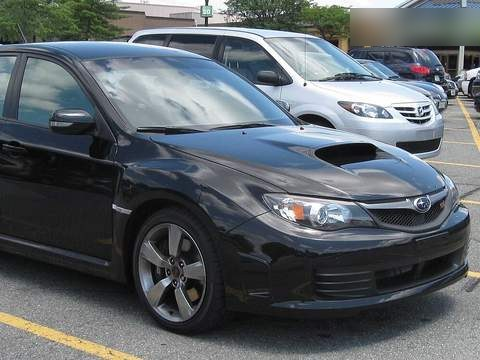
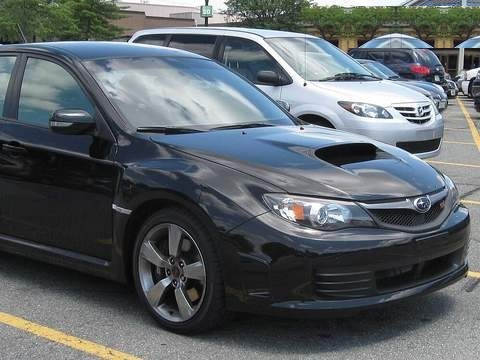
Review 18 fixes: demo connect wait, Busy night badge, towns and going, no plate-blur smudges
- Connecting in the demo says "Demo: @dan_r will accept in a few seconds".
- Community badge counts what Community shows: chats with unread messages plus requests.
- Busy night meets are named after a nearby town (areaNameNear), not all "Around Tamworth".
- Going is saved at once, and Busy night's meets keep your going when they're laid out again on
  load (a reload lost it). Regression test added.
- Sample photos: the grey blur boxes in the background of b-em-0 (Car park meet-up), b-kez-0
  (sign-in), b-raf-0 (Busy night's Friday meet) and b-tay-0 are replaced with the scene around
  them (hedge and road, trees, the shop's bikes). Every sample and place photo checked.

Claude-Session: https://claude.ai/code/session_01SxbZy52wgisMgiXvY74m9p

Changed region(s): [[0.7188, 0.0, 1.0, 0.1528]]

diff --git a/src/lib/store.tsx b/src/lib/store.tsx
@@ -15,7 +15,7 @@ import { ClockProvider } from './clock';
 import { alertProblem, travelProblem, nearbyArrivals, nearbyBatch, nearbyNotice, travelOf, type AlertMode } from './discover';
 import { isPublicType, type PlanChange } from './events';
 import { isSeedEvent, restartDemo, restartDemoClock, startDemoClock, stopDemoClock, toRealTime } from './demoTime';
-import { appNow, appNowMs } from './appClock';
+import { appNow, appNowMs, realNowMs } from './appClock';
 import { isUuid, mergeStatuses, sentEntry, type FeedbackContext, type PendingFeedback, type SentFeedback } from './feedbackQueue';
 import { newId } from './ids';
 import { createLocalRepository } from './localRepository';
@@ -219,6 +219,8 @@ function StoreForMode({ mode, signOut, children }: { mode: Mode; signOut: () => 
   const pendingSave = useRef<Persisted | null>(null);
   const saveTimer = useRef<ReturnType<typeof setTimeout> | null>(null);
   const legacySave = useRef(false);
+  /** Until when a change is saved at once, not after SAVE_DELAY_MS (going: a quick reload keeps it, Review 18). */
+  const saveNowUntil = useRef(0);
 
   const set = useCallback((fn: (s: Persisted) => Persisted) => {
     setState((s) => {
@@ -375,6 +377,10 @@ function StoreForMode({ mode, signOut, children }: { mode: Mode; signOut: () => 
     if (!loaded.current || mode.kind === 'none') return;
     pendingSave.current = state;
     if (saveTimer.current) clearTimeout(saveTimer.current);
+    if (realNowMs() < saveNowUntil.current) {
+      flush();
+      return;
+    }
     saveTimer.current = setTimeout(() => {
       flush();
     }, SAVE_DELAY_MS);
@@ -610,7 +616,11 @@ function StoreForMode({ mode, signOut, children }: { mode: Mode; signOut: () => 
       editEvent: async (e) => need().editEvent(e),
       changePlan: async (id, change) => need().changePlan(id, change),
       saveProfile: async (draft) => need().saveProfile(draft),
-      setGoing: async (id, going, buildId) => need().setGoing(id, going, buildId),
+      setGoing: async (id, going, buildId) => {
+        // Saved at once, not debounced: a reload straight after I'm going keeps it (Review 18).
+        saveNowUntil.current = realNowMs() + 2000;
+        return need().setGoing(id, going, buildId);
+      },
       answerRequest: async (id, userId, approve) => need().answerRequest(id, userId, approve),
       inviteConnections: async (id, userIds, ctx) => need().inviteConnections(id, userIds, ctx),
       checkIn: async (id, stop, buildId, position) => need().checkIn(id, stop, buildId, position),

diff --git a/src/data/busyNight.ts b/src/data/busyNight.ts
@@ -9,7 +9,7 @@ import { eventArea } from '../lib/area';
 import { isPublicType } from '../lib/events';
 import { milesBetween } from '../lib/geo';
 import { meetAt } from '../lib/postPrivacy';
-import { nearestRegion } from '../lib/profile';
+import { areaNameNear, nearestRegion } from '../lib/profile';
 import { nearest, translate } from '../lib/scene';
 import { similarSample } from '../lib/similarPhoto';
 import { modelLabel, type Variant } from '../lib/vehicles';
@@ -316,7 +316,10 @@ export function busyEvents(now: Date, home: LatLng, people: BusyPeople, sampleUs
     } else {
       stops = [{ id: sp(1), name: placeName(), at: offset(home, spec.miles + rand() * 1.5, bearing) }];
     }
-    if (spec.miles > 25 && spec.type !== 'cruise') areaName = nearestRegion(stops[0].at!);
+    const placed = stops.flatMap((s) => (s.at ? [s.at] : []));
+    const ea = eventArea(placed, id, isPublicType(spec.type));
+    // A real town near the area (Review 18), not "Around Tamworth" for every busy meet.
+    if (spec.type !== 'cruise') areaName = areaNameNear(ea.area);
     // Who's going: people with a build the invite lets in, in a shuffled order.
     const fits = new Map<string, string>();
     for (const b of builds) if (!fits.has(b.ownerId) && buildMatches(b, filter)) fits.set(b.ownerId, b.id);
@@ -325,13 +328,12 @@ export function busyEvents(now: Date, home: LatLng, people: BusyPeople, sampleUs
     const host = going[0];
     const live = start.getTime() <= now.getTime();
     const checkIns: Record<string, string[]> = live ? Object.fromEntries(going.filter(() => rand() < 0.7).map((u) => [u, [stops[0].id]])) : {};
-    const placed = stops.flatMap((s) => (s.at ? [s.at] : []));
     events.push({
       id, type: spec.type, title: spec.title, description: spec.description,
       startsAt: start.toISOString(), endsAt: end.toISOString(), areaName, ...(routeMiles ? { routeMiles } : {}),
       stops, currentStop: 0, revealMinutesBefore: spec.reveal ?? 60, hostIds: host ? [host] : [],
       filter, going, checkIns, vehicles: Object.fromEntries(going.map((u) => [u, fits.get(u)!])),
-      ...eventArea(placed, id, isPublicType(spec.type)),
+      ...ea,
     });
     // A few lines of chat from people going, before now.
     const lines = 2 + Math.floor(rand() * 3);

diff --git a/src/data/samplePhotos.ts b/src/data/samplePhotos.ts
@@ -44,7 +44,7 @@ export const SAMPLE_PHOTOS: Record<string, SamplePhoto> = {
     author: 'Vauxford',
     licence: 'CC BY-SA 4.0',
     licenceUrl: 'https://creativecommons.org/licenses/by-sa/4.0',
-    edited: 'Background plates blurred',
+    edited: 'Background plates removed',
   },
   'b-aimee-0': {
     image: require('../../assets/sample-photos/b-aimee-0.jpg'),
@@ -103,7 +103,7 @@ export const SAMPLE_PHOTOS: Record<string, SamplePhoto> = {
     title: 'Subaru Impreza WRX STI (GR, 2008)',
     author: 'IFCAR',
     licence: 'Public domain',
-    edited: 'Shop sign blurred',
+    edited: 'Shop sign removed',
   },
   'b-raf-0': {
     image: require('../../assets/sample-photos/b-raf-0.jpg'),
@@ -113,7 +113,7 @@ export const SAMPLE_PHOTOS: Record<string, SamplePhoto> = {
     licence: 'CC BY-SA 4.0',
     licenceUrl: 'https://creativecommons.org/licenses/by-sa/4.0',
     similar: 'YZF-R6 2018 model year (same generation)',
-    edited: 'Dealer sign blurred',
+    edited: 'Dealer sign removed',
   },
   'b-cal-0': {
     image: require('../../assets/sample-photos/b-cal-0.jpg'),
@@ -156,7 +156,7 @@ export const SAMPLE_PHOTOS: Record<string, SamplePhoto> = {
     author: 'Vauxford',
     licence: 'CC BY-SA 4.0',
     licenceUrl: 'https://creativecommons.org/licenses/by-sa/4.0',
-    edited: 'Dealer sign blurred',
+    edited: 'Dealer sign removed',
   },
   'b-tom-0': {
     image: require('../../assets/sample-photos/b-tom-0.jpg'),

diff --git a/src/app/user/[id].tsx b/src/app/user/[id].tsx
@@ -99,7 +99,8 @@ export default function UserScreen() {
   // The toast said "Request sent"; the bar says what's left and offers the one thing that helps
   // (4.3): a status with no calendar (it isn't a time) and "Cancel request" next to it.
   else if (state === 'outgoing') {
-    status = `Waiting for ${handle} to accept`;
+    // The demo's people accept after a moment: say so, so nobody leaves before it happens (Review 18).
+    status = demo ? `Demo: ${handle} will accept in a few seconds` : `Waiting for ${handle} to accept`;
     secondary = { label: CONNECT.cancel, busy, onPress: () => void act(() => community.run((s) => s.removeConnection(id)), 'Request cancelled') };
   }
   else primary = { label: CONNECT.connect, busy, haptic: 'success', accessibilityHint: `Once ${handle} accepts, you can message each other`, onPress: () => void connect() };

diff --git a/__tests__/busyNight.test.ts b/__tests__/busyNight.test.ts
@@ -183,6 +183,14 @@ describe('Busy night on and off', () => {
     expect(busy.events.some((e) => isBusyId(e.id))).toBe(true);
   });
 
+  it('going to a busy meet survives the refresh on load (Review 18: a reload lost it)', () => {
+    const on = setBusyNight(normal, true, NOW);
+    const first = on.events.find((e) => isBusyId(e.id))!;
+    const going = { ...on, events: on.events.map((e) => (e.id === first.id ? { ...e, going: [...e.going, ME] } : e)) };
+    const later = new Date(NOW.getTime() + 3 * 60 * 60_000);
+    expect(freshen(going, later).events.find((e) => e.id === first.id)!.going).toContain(ME);
+  });
+
   it('the Community and road reports come out cleanly too', () => {
     const demo = seedDemoCommunity(emptyDemoCommunity(), DEMO_HOME, 'Midlands', NOW);
     const withIt = withBusyCommunity(demo, community);

diff --git a/src/lib/communityStore.tsx b/src/lib/communityStore.tsx
@@ -46,7 +46,7 @@ interface Community {
   connections: Record<string, ConnectionState>;
   blocked: ReadonlySet<string>;
   conversations: Conversation[];
-  /** Unread messages plus connection requests waiting for you (the tab badge). */
+  /** Chats with unread messages plus connection requests waiting for you (the tab badge): what Community shows, Chats' dots and People's first row (Review 18). */
   badge: number;
   unread: number;
   incoming: string[];
@@ -263,7 +263,7 @@ export function CommunityProvider({ children }: { children: ReactNode }) {
       conversations,
       unread,
       incoming,
-      badge: unread + incoming.length,
+      badge: conversations.filter((c) => c.unread > 0).length + incoming.length,
       showInNearby,
       forumRep,
       refresh,

diff --git a/src/lib/localState.ts b/src/lib/localState.ts
@@ -122,7 +122,8 @@ export function freshen(state: Persisted, now: Date): Persisted {
     notices: retimeNearbyNotices(plain.notices, refreshed.events),
     seededAt: now.toISOString(),
   };
-  return busy ? layBusy(next, now) : next;
+  // Laid out again with the saved busy meets handed in, so going to one survives a reload (Review 18).
+  return busy ? layBusy({ ...next, events: [...next.events, ...state.events.filter((e) => isBusyId(e.id))] }, now) : next;
 }
 
 /** Lay the busy night out round the scene's home for `now` (again), without "new near you" for each of its meets. */
